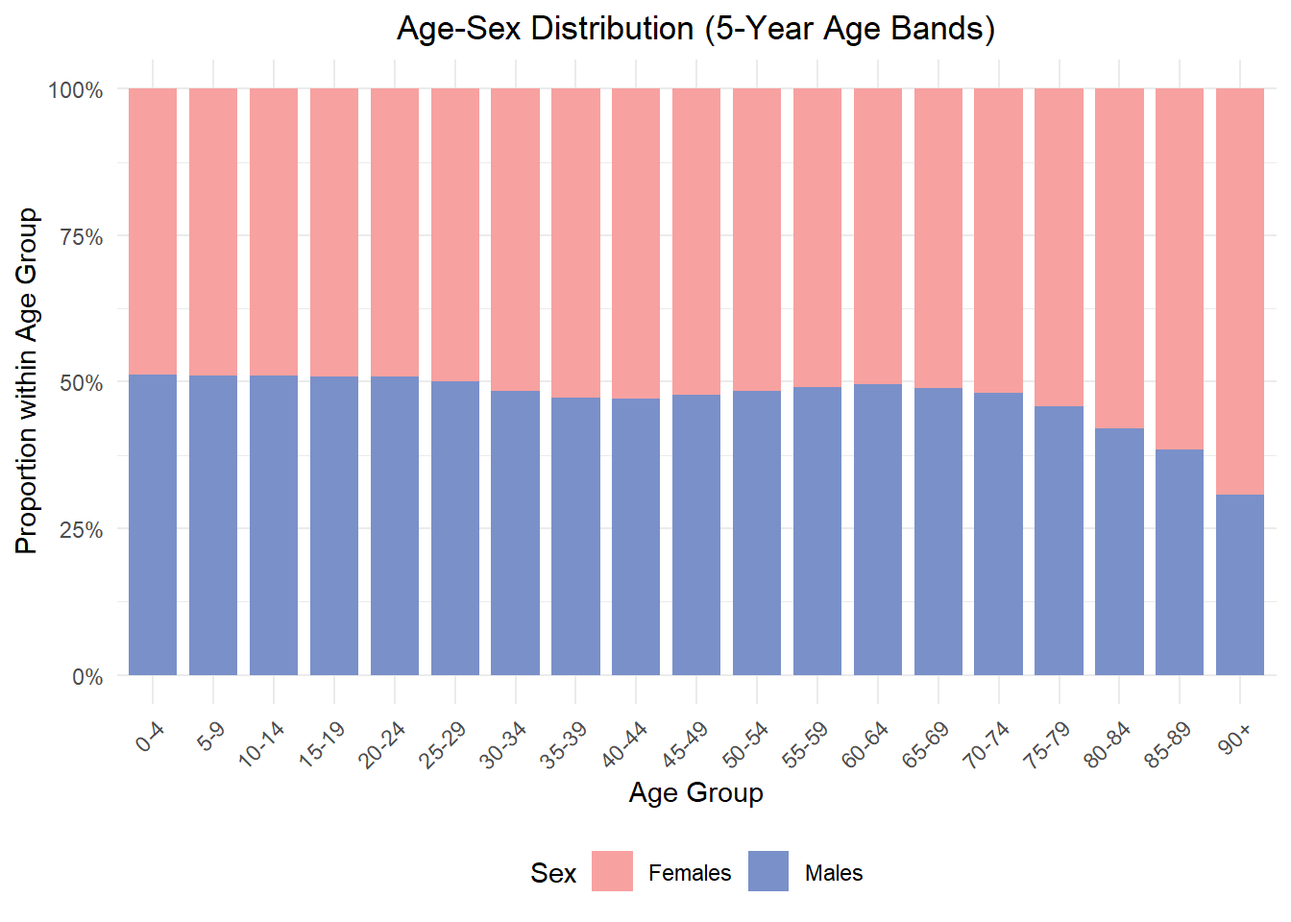
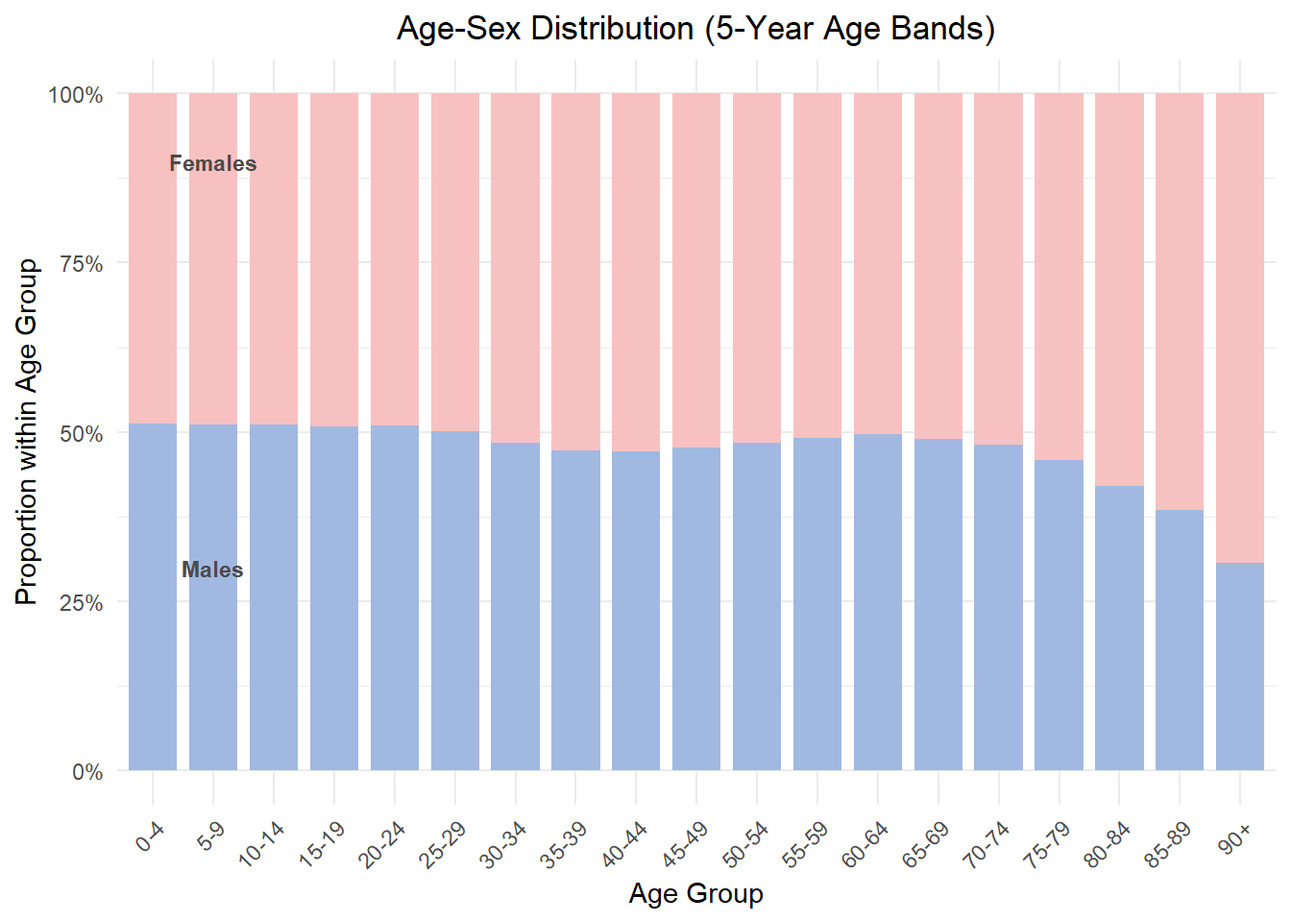
commit changes to take home exercise 1 visuals

diff --git a/_site/Take-home_Ex/Take-home_Ex1/Take-home_Ex01.html b/_site/Take-home_Ex/Take-home_Ex1/Take-home_Ex01.html
@@ -9,7 +9,7 @@
 <meta name="author" content="Yi Fang">
 <meta name="dcterms.date" content="2025-04-30">
 
-<title>Take-home Exercise 1 – &lt;img src='/images/shibainu.png' alt='ISSS608' style='height: 48px; width: 48px;'&gt;</title>
+<title>Take-home Exercise 1 – </title>
 <style>
 code{white-space: pre-wrap;}
 span.smallcaps{font-variant: small-caps;}
@@ -439,14 +439,14 @@ $ Time &lt;dbl&gt; 2024, 2024, 2024, 2024, 2024, 2024, 2024, 2024, 2024, 2024, 2
 <h3 class="anchored" data-anchor-id="national-distribution-of-age-and-sex-demographics">4.1 National Distribution of Age and Sex Demographics</h3>
 <p>To gain an overview of the national age and sex demographics, we use a population pyramid that highlights the age distribution by sex. The stacked bar chart further illustrates the sex distribution within each age group.</p>
 <div class="tabset-margin-container"></div><div class="panel-tabset">
-<ul class="nav nav-tabs" role="tablist"><li class="nav-item" role="presentation"><a class="nav-link active" id="tabset-1-1-tab" data-bs-toggle="tab" data-bs-target="#tabset-1-1" role="tab" aria-controls="tabset-1-1" aria-selected="true">The plot</a></li><li class="nav-item" role="presentation"><a class="nav-link" id="tabset-1-2-tab" data-bs-toggle="tab" data-bs-target="#tabset-1-2" role="tab" aria-controls="tabset-1-2" aria-selected="false">The code</a></li></ul>
+<ul class="nav nav-tabs" role="tablist"><li class="nav-item" role="presentation"><a class="nav-link active" id="tabset-1-1-tab" data-bs-toggle="tab" data-bs-target="#tabset-1-1" role="tab" aria-controls="tabset-1-1" aria-selected="true">Plot</a></li><li class="nav-item" role="presentation"><a class="nav-link" id="tabset-1-2-tab" data-bs-toggle="tab" data-bs-target="#tabset-1-2" role="tab" aria-controls="tabset-1-2" aria-selected="false">Code</a></li></ul>
 <div class="tab-content">
 <div id="tabset-1-1" class="tab-pane active" role="tabpanel" aria-labelledby="tabset-1-1-tab">
 <div class="cell">
 <div class="cell-output-display">
 <div>
 <figure class="figure">
-<p><img src="Take-home_Ex01_files/figure-html/unnamed-chunk-8-1.png" class="img-fluid figure-img" width="1248"></p>
+<p><img src="Take-home_Ex01_files/figure-html/unnamed-chunk-8-1.png" class="img-fluid figure-img" width="1056"></p>
 </figure>
 </div>
 </div>
@@ -474,7 +474,7 @@ $ Time &lt;dbl&gt; 2024, 2024, 2024, 2024, 2024, 2024, 2024, 2024, 2024, 2024, 2
 <span id="cb10-18"><a href="#cb10-18" aria-hidden="true" tabindex="-1"></a></span>
 <span id="cb10-19"><a href="#cb10-19" aria-hidden="true" tabindex="-1"></a><span class="co"># Determine max population size for label positioning</span></span>
 <span id="cb10-20"><a href="#cb10-20" aria-hidden="true" tabindex="-1"></a>max_pop <span class="ot">&lt;-</span> <span class="fu">max</span>(<span class="fu">abs</span>(national_data<span class="sc">$</span>Total))</span>
-<span id="cb10-21"><a href="#cb10-21" aria-hidden="true" tabindex="-1"></a>top_age_band <span class="ot">&lt;-</span> <span class="fu">tail</span>(<span class="fu">levels</span>(national_data<span class="sc">$</span>AgeBand), <span class="dv">1</span>)  <span class="co"># "90+"</span></span>
+<span id="cb10-21"><a href="#cb10-21" aria-hidden="true" tabindex="-1"></a>top_age_band <span class="ot">&lt;-</span> <span class="fu">tail</span>(<span class="fu">levels</span>(national_data<span class="sc">$</span>AgeBand), <span class="dv">1</span>)  </span>
 <span id="cb10-22"><a href="#cb10-22" aria-hidden="true" tabindex="-1"></a></span>
 <span id="cb10-23"><a href="#cb10-23" aria-hidden="true" tabindex="-1"></a><span class="co"># Population Pyramid plot with 90+ and top annotations</span></span>
 <span id="cb10-24"><a href="#cb10-24" aria-hidden="true" tabindex="-1"></a>pyramid_plot <span class="ot">&lt;-</span> <span class="fu">ggplot</span>(national_data, <span class="fu">aes</span>(<span class="at">x =</span> AgeBand, <span class="at">y =</span> Total, <span class="at">fill =</span> Sex)) <span class="sc">+</span></span>
@@ -485,18 +485,18 @@ $ Time &lt;dbl&gt; 2024, 2024, 2024, 2024, 2024, 2024, 2024, 2024, 2024, 2024, 2
 <span id="cb10-29"><a href="#cb10-29" aria-hidden="true" tabindex="-1"></a>    <span class="at">breaks =</span> <span class="fu">pretty_breaks</span>()</span>
 <span id="cb10-30"><a href="#cb10-30" aria-hidden="true" tabindex="-1"></a>  ) <span class="sc">+</span></span>
 <span id="cb10-31"><a href="#cb10-31" aria-hidden="true" tabindex="-1"></a>  <span class="fu">labs</span>(</span>
-<span id="cb10-32"><a href="#cb10-32" aria-hidden="true" tabindex="-1"></a>    <span class="at">title =</span> <span class="st">"Population Pyramid (5-Year Age Bands)"</span>,</span>
+<span id="cb10-32"><a href="#cb10-32" aria-hidden="true" tabindex="-1"></a>    <span class="at">title =</span> <span class="st">"Population Pyramid"</span>,</span>
 <span id="cb10-33"><a href="#cb10-33" aria-hidden="true" tabindex="-1"></a>    <span class="at">x =</span> <span class="st">"Age Group"</span>,</span>
 <span id="cb10-34"><a href="#cb10-34" aria-hidden="true" tabindex="-1"></a>    <span class="at">y =</span> <span class="st">"Population"</span></span>
 <span id="cb10-35"><a href="#cb10-35" aria-hidden="true" tabindex="-1"></a>  ) <span class="sc">+</span></span>
-<span id="cb10-36"><a href="#cb10-36" aria-hidden="true" tabindex="-1"></a>  <span class="fu">scale_fill_manual</span>(<span class="at">values =</span> <span class="fu">c</span>(<span class="st">"Males"</span> <span class="ot">=</span> <span class="st">"#7A90C9"</span>, <span class="st">"Females"</span> <span class="ot">=</span> <span class="st">"#F7A1A0"</span>)) <span class="sc">+</span></span>
+<span id="cb10-36"><a href="#cb10-36" aria-hidden="true" tabindex="-1"></a>  <span class="fu">scale_fill_manual</span>(<span class="at">values =</span> <span class="fu">c</span>(<span class="st">"Males"</span> <span class="ot">=</span> <span class="st">"#A1B8E0"</span>, <span class="st">"Females"</span> <span class="ot">=</span> <span class="st">"#F8C1C1"</span>)) <span class="sc">+</span></span>
 <span id="cb10-37"><a href="#cb10-37" aria-hidden="true" tabindex="-1"></a>  <span class="fu">theme_minimal</span>() <span class="sc">+</span></span>
 <span id="cb10-38"><a href="#cb10-38" aria-hidden="true" tabindex="-1"></a>  <span class="fu">theme</span>(</span>
 <span id="cb10-39"><a href="#cb10-39" aria-hidden="true" tabindex="-1"></a>    <span class="at">plot.title =</span> <span class="fu">element_text</span>(<span class="at">hjust =</span> <span class="fl">0.5</span>),</span>
 <span id="cb10-40"><a href="#cb10-40" aria-hidden="true" tabindex="-1"></a>    <span class="at">legend.position =</span> <span class="st">"none"</span></span>
 <span id="cb10-41"><a href="#cb10-41" aria-hidden="true" tabindex="-1"></a>  ) <span class="sc">+</span></span>
-<span id="cb10-42"><a href="#cb10-42" aria-hidden="true" tabindex="-1"></a>  <span class="fu">annotate</span>(<span class="st">"text"</span>, <span class="at">x =</span> top_age_band, <span class="at">y =</span> <span class="sc">-</span>max_pop <span class="sc">*</span> <span class="fl">0.9</span>, <span class="at">label =</span> <span class="st">"Males"</span>, <span class="at">color =</span> <span class="st">"#7A90C9"</span>, <span class="at">fontface =</span> <span class="st">"bold"</span>, <span class="at">size =</span> <span class="dv">5</span>) <span class="sc">+</span></span>
-<span id="cb10-43"><a href="#cb10-43" aria-hidden="true" tabindex="-1"></a>  <span class="fu">annotate</span>(<span class="st">"text"</span>, <span class="at">x =</span> top_age_band, <span class="at">y =</span> max_pop <span class="sc">*</span> <span class="fl">0.9</span>, <span class="at">label =</span> <span class="st">"Females"</span>, <span class="at">color =</span> <span class="st">"#F7A1A0"</span>, <span class="at">fontface =</span> <span class="st">"bold"</span>, <span class="at">size =</span> <span class="dv">5</span>)</span>
+<span id="cb10-42"><a href="#cb10-42" aria-hidden="true" tabindex="-1"></a>  <span class="fu">annotate</span>(<span class="st">"text"</span>, <span class="at">x =</span> top_age_band, <span class="at">y =</span> <span class="sc">-</span>max_pop <span class="sc">*</span> <span class="fl">0.5</span>, <span class="at">label =</span> <span class="st">"Males"</span>, <span class="at">color =</span> <span class="st">"#4A4A4A"</span>, <span class="at">fontface =</span> <span class="st">"bold"</span>, <span class="at">size =</span> <span class="dv">3</span>) <span class="sc">+</span></span>
+<span id="cb10-43"><a href="#cb10-43" aria-hidden="true" tabindex="-1"></a>  <span class="fu">annotate</span>(<span class="st">"text"</span>, <span class="at">x =</span> top_age_band, <span class="at">y =</span> max_pop <span class="sc">*</span> <span class="fl">0.5</span>, <span class="at">label =</span> <span class="st">"Females"</span>, <span class="at">color =</span> <span class="st">"#4A4A4A"</span>, <span class="at">fontface =</span> <span class="st">"bold"</span>, <span class="at">size =</span> <span class="dv">3</span>)</span>
 <span id="cb10-44"><a href="#cb10-44" aria-hidden="true" tabindex="-1"></a></span>
 <span id="cb10-45"><a href="#cb10-45" aria-hidden="true" tabindex="-1"></a>stacked_data <span class="ot">&lt;-</span> respop_data_clean <span class="sc">%&gt;%</span></span>
 <span id="cb10-46"><a href="#cb10-46" aria-hidden="true" tabindex="-1"></a>  <span class="fu">mutate</span>(<span class="at">Age =</span> <span class="fu">as.integer</span>(Age)) <span class="sc">%&gt;%</span></span>
@@ -520,22 +520,25 @@ $ Time &lt;dbl&gt; 2024, 2024, 2024, 2024, 2024, 2024, 2024, 2024, 2024, 2024, 2
 <span id="cb10-64"><a href="#cb10-64" aria-hidden="true" tabindex="-1"></a>  <span class="fu">geom_bar</span>(<span class="at">stat =</span> <span class="st">"identity"</span>, <span class="at">width =</span> <span class="fl">0.8</span>) <span class="sc">+</span></span>
 <span id="cb10-65"><a href="#cb10-65" aria-hidden="true" tabindex="-1"></a>  <span class="fu">scale_y_continuous</span>(<span class="at">labels =</span> scales<span class="sc">::</span><span class="fu">percent_format</span>()) <span class="sc">+</span></span>
 <span id="cb10-66"><a href="#cb10-66" aria-hidden="true" tabindex="-1"></a>  <span class="fu">labs</span>(</span>
-<span id="cb10-67"><a href="#cb10-67" aria-hidden="true" tabindex="-1"></a>    <span class="at">title =</span> <span class="st">"Age-Sex Distribution (5-Year Age Bands)"</span>,</span>
+<span id="cb10-67"><a href="#cb10-67" aria-hidden="true" tabindex="-1"></a>    <span class="at">title =</span> <span class="st">"Age-Sex Distribution"</span>,</span>
 <span id="cb10-68"><a href="#cb10-68" aria-hidden="true" tabindex="-1"></a>    <span class="at">x =</span> <span class="st">"Age Group"</span>,</span>
-<span id="cb10-69"><a href="#cb10-69" aria-hidden="true" tabindex="-1"></a>    <span class="at">y =</span> <span class="st">"Proportion within Age Group"</span>,</span>
-<span id="cb10-70"><a href="#cb10-70" aria-hidden="true" tabindex="-1"></a>    <span class="at">fill =</span> <span class="st">"Sex"</span></span>
-<span id="cb10-71"><a href="#cb10-71" aria-hidden="true" tabindex="-1"></a>  ) <span class="sc">+</span></span>
-<span id="cb10-72"><a href="#cb10-72" aria-hidden="true" tabindex="-1"></a>  <span class="fu">scale_fill_manual</span>(<span class="at">values =</span> <span class="fu">c</span>(<span class="st">"Males"</span> <span class="ot">=</span> <span class="st">"#7A90C9"</span>, <span class="st">"Females"</span> <span class="ot">=</span> <span class="st">"#F7A1A0"</span>)) <span class="sc">+</span></span>
-<span id="cb10-73"><a href="#cb10-73" aria-hidden="true" tabindex="-1"></a>  <span class="fu">theme_minimal</span>() <span class="sc">+</span></span>
-<span id="cb10-74"><a href="#cb10-74" aria-hidden="true" tabindex="-1"></a>  <span class="fu">theme</span>(</span>
-<span id="cb10-75"><a href="#cb10-75" aria-hidden="true" tabindex="-1"></a>    <span class="at">plot.title =</span> <span class="fu">element_text</span>(<span class="at">hjust =</span> <span class="fl">0.5</span>),</span>
-<span id="cb10-76"><a href="#cb10-76" aria-hidden="true" tabindex="-1"></a>    <span class="at">axis.text.x =</span> <span class="fu">element_text</span>(<span class="at">angle =</span> <span class="dv">45</span>, <span class="at">hjust =</span> <span class="dv">1</span>),</span>
-<span id="cb10-77"><a href="#cb10-77" aria-hidden="true" tabindex="-1"></a>    <span class="at">legend.position =</span> <span class="st">"bottom"</span></span>
-<span id="cb10-78"><a href="#cb10-78" aria-hidden="true" tabindex="-1"></a>  )</span>
-<span id="cb10-79"><a href="#cb10-79" aria-hidden="true" tabindex="-1"></a></span>
-<span id="cb10-80"><a href="#cb10-80" aria-hidden="true" tabindex="-1"></a></span>
-<span id="cb10-81"><a href="#cb10-81" aria-hidden="true" tabindex="-1"></a><span class="co"># Arrange both plots side by side</span></span>
-<span id="cb10-82"><a href="#cb10-82" aria-hidden="true" tabindex="-1"></a>pyramid_plot <span class="sc">+</span> stacked_bar_plot</span></code><button title="Copy to Clipboard" class="code-copy-button"><i class="bi"></i></button></pre></div>
+<span id="cb10-69"><a href="#cb10-69" aria-hidden="true" tabindex="-1"></a>    <span class="at">y =</span> <span class="st">"Proportion within Age Group"</span></span>
+<span id="cb10-70"><a href="#cb10-70" aria-hidden="true" tabindex="-1"></a>  ) <span class="sc">+</span></span>
+<span id="cb10-71"><a href="#cb10-71" aria-hidden="true" tabindex="-1"></a>  <span class="fu">scale_fill_manual</span>(<span class="at">values =</span> <span class="fu">c</span>(<span class="st">"Males"</span> <span class="ot">=</span> <span class="st">"#A1B8E0"</span>, <span class="st">"Females"</span> <span class="ot">=</span> <span class="st">"#F8C1C1"</span>)) <span class="sc">+</span></span>
+<span id="cb10-72"><a href="#cb10-72" aria-hidden="true" tabindex="-1"></a>  <span class="fu">theme_minimal</span>() <span class="sc">+</span></span>
+<span id="cb10-73"><a href="#cb10-73" aria-hidden="true" tabindex="-1"></a>  <span class="fu">theme</span>(</span>
+<span id="cb10-74"><a href="#cb10-74" aria-hidden="true" tabindex="-1"></a>    <span class="at">plot.title =</span> <span class="fu">element_text</span>(<span class="at">hjust =</span> <span class="fl">0.5</span>),</span>
+<span id="cb10-75"><a href="#cb10-75" aria-hidden="true" tabindex="-1"></a>    <span class="at">axis.text.x =</span> <span class="fu">element_text</span>(<span class="at">angle =</span> <span class="dv">45</span>, <span class="at">hjust =</span> <span class="dv">1</span>),</span>
+<span id="cb10-76"><a href="#cb10-76" aria-hidden="true" tabindex="-1"></a>    <span class="at">legend.position =</span> <span class="st">"none"</span>  </span>
+<span id="cb10-77"><a href="#cb10-77" aria-hidden="true" tabindex="-1"></a>  ) <span class="sc">+</span></span>
+<span id="cb10-78"><a href="#cb10-78" aria-hidden="true" tabindex="-1"></a>  <span class="co"># Annotate "Males" label</span></span>
+<span id="cb10-79"><a href="#cb10-79" aria-hidden="true" tabindex="-1"></a>  <span class="fu">annotate</span>(<span class="st">"text"</span>, <span class="at">x =</span> <span class="dv">2</span>, <span class="at">y =</span> <span class="fl">0.3</span>, <span class="at">label =</span> <span class="st">"Males"</span>, <span class="at">color =</span> <span class="st">"#4A4A4A"</span>, <span class="at">fontface =</span> <span class="st">"bold"</span>, <span class="at">size =</span> <span class="dv">3</span>) <span class="sc">+</span></span>
+<span id="cb10-80"><a href="#cb10-80" aria-hidden="true" tabindex="-1"></a>  <span class="co"># Annotate "Females" label</span></span>
+<span id="cb10-81"><a href="#cb10-81" aria-hidden="true" tabindex="-1"></a>  <span class="fu">annotate</span>(<span class="st">"text"</span>, <span class="at">x =</span> <span class="dv">2</span>, <span class="at">y =</span> <span class="fl">0.9</span>, <span class="at">label =</span> <span class="st">"Females"</span>, <span class="at">color =</span> <span class="st">"#4A4A4A"</span>, <span class="at">fontface =</span> <span class="st">"bold"</span>, <span class="at">size =</span> <span class="dv">3</span>)</span>
+<span id="cb10-82"><a href="#cb10-82" aria-hidden="true" tabindex="-1"></a></span>
+<span id="cb10-83"><a href="#cb10-83" aria-hidden="true" tabindex="-1"></a></span>
+<span id="cb10-84"><a href="#cb10-84" aria-hidden="true" tabindex="-1"></a><span class="co"># Arrange both plots side by side</span></span>
+<span id="cb10-85"><a href="#cb10-85" aria-hidden="true" tabindex="-1"></a>pyramid_plot <span class="sc">+</span> stacked_bar_plot</span></code><button title="Copy to Clipboard" class="code-copy-button"><i class="bi"></i></button></pre></div>
 </div>
 </div>
 </div>
@@ -551,7 +554,7 @@ $ Time &lt;dbl&gt; 2024, 2024, 2024, 2024, 2024, 2024, 2024, 2024, 2024, 2024, 2
 <h3 class="anchored" data-anchor-id="population-size-and-age-group-concentrations-by-region">4.2 Population Size and Age Group Concentrations by Region</h3>
 <p>This section explores how the population is spread across different age groups in each region. The stacked bar chart shows the breakdown across five age groups for each region. Additionally, a slope chart shows the proportion of the youth against the senior populations, providing a simple visual of how each region’s population skews younger or older.</p>
 <div class="tabset-margin-container"></div><div class="panel-tabset">
-<ul class="nav nav-tabs" role="tablist"><li class="nav-item" role="presentation"><a class="nav-link active" id="tabset-2-1-tab" data-bs-toggle="tab" data-bs-target="#tabset-2-1" role="tab" aria-controls="tabset-2-1" aria-selected="true">The plot</a></li><li class="nav-item" role="presentation"><a class="nav-link" id="tabset-2-2-tab" data-bs-toggle="tab" data-bs-target="#tabset-2-2" role="tab" aria-controls="tabset-2-2" aria-selected="false">The code</a></li></ul>
+<ul class="nav nav-tabs" role="tablist"><li class="nav-item" role="presentation"><a class="nav-link active" id="tabset-2-1-tab" data-bs-toggle="tab" data-bs-target="#tabset-2-1" role="tab" aria-controls="tabset-2-1" aria-selected="true">Plot</a></li><li class="nav-item" role="presentation"><a class="nav-link" id="tabset-2-2-tab" data-bs-toggle="tab" data-bs-target="#tabset-2-2" role="tab" aria-controls="tabset-2-2" aria-selected="false">Code</a></li></ul>
 <div class="tab-content">
 <div id="tabset-2-1" class="tab-pane active" role="tabpanel" aria-labelledby="tabset-2-1-tab">
 <div class="cell">
@@ -583,40 +586,41 @@ $ Time &lt;dbl&gt; 2024, 2024, 2024, 2024, 2024, 2024, 2024, 2024, 2024, 2024, 2
 <span id="cb11-15"><a href="#cb11-15" aria-hidden="true" tabindex="-1"></a>                               <span class="st">"45-64"</span> <span class="ot">=</span> <span class="st">"#FFD1A9"</span>,  </span>
 <span id="cb11-16"><a href="#cb11-16" aria-hidden="true" tabindex="-1"></a>                               <span class="st">"65+"</span> <span class="ot">=</span> <span class="st">"#E0B0FF"</span>)) <span class="sc">+</span>  </span>
 <span id="cb11-17"><a href="#cb11-17" aria-hidden="true" tabindex="-1"></a>  <span class="fu">theme_minimal</span>() <span class="sc">+</span></span>
-<span id="cb11-18"><a href="#cb11-18" aria-hidden="true" tabindex="-1"></a>  <span class="fu">theme</span>(<span class="at">axis.text.x =</span> <span class="fu">element_text</span>(<span class="at">angle =</span> <span class="dv">45</span>, <span class="at">hjust =</span> <span class="dv">1</span>))</span>
-<span id="cb11-19"><a href="#cb11-19" aria-hidden="true" tabindex="-1"></a></span>
-<span id="cb11-20"><a href="#cb11-20" aria-hidden="true" tabindex="-1"></a><span class="co"># Second plot (Slope Chart for Youth vs Senior Population)</span></span>
-<span id="cb11-21"><a href="#cb11-21" aria-hidden="true" tabindex="-1"></a>youth_senior_data <span class="ot">&lt;-</span> respop_data_clean <span class="sc">%&gt;%</span></span>
-<span id="cb11-22"><a href="#cb11-22" aria-hidden="true" tabindex="-1"></a>  <span class="fu">mutate</span>(<span class="at">Age_Group =</span> <span class="fu">case_when</span>(</span>
-<span id="cb11-23"><a href="#cb11-23" aria-hidden="true" tabindex="-1"></a>    Age <span class="sc">&lt;=</span> <span class="dv">24</span> <span class="sc">~</span> <span class="st">"Youth (0–24)"</span>,</span>
-<span id="cb11-24"><a href="#cb11-24" aria-hidden="true" tabindex="-1"></a>    Age <span class="sc">&gt;=</span> <span class="dv">65</span> <span class="sc">~</span> <span class="st">"Senior (65+)"</span>,</span>
-<span id="cb11-25"><a href="#cb11-25" aria-hidden="true" tabindex="-1"></a>    <span class="cn">TRUE</span> <span class="sc">~</span> <span class="cn">NA_character_</span></span>
-<span id="cb11-26"><a href="#cb11-26" aria-hidden="true" tabindex="-1"></a>  )) <span class="sc">%&gt;%</span></span>
-<span id="cb11-27"><a href="#cb11-27" aria-hidden="true" tabindex="-1"></a>  <span class="fu">filter</span>(<span class="sc">!</span><span class="fu">is.na</span>(Age_Group)) <span class="sc">%&gt;%</span></span>
-<span id="cb11-28"><a href="#cb11-28" aria-hidden="true" tabindex="-1"></a>  <span class="fu">group_by</span>(Region, Age_Group) <span class="sc">%&gt;%</span></span>
-<span id="cb11-29"><a href="#cb11-29" aria-hidden="true" tabindex="-1"></a>  <span class="fu">summarise</span>(<span class="at">Total_Pop =</span> <span class="fu">sum</span>(Pop, <span class="at">na.rm =</span> <span class="cn">TRUE</span>), <span class="at">.groups =</span> <span class="st">"drop"</span>) <span class="sc">%&gt;%</span></span>
-<span id="cb11-30"><a href="#cb11-30" aria-hidden="true" tabindex="-1"></a>  <span class="fu">pivot_wider</span>(<span class="at">names_from =</span> Age_Group, <span class="at">values_from =</span> Total_Pop) <span class="sc">%&gt;%</span></span>
-<span id="cb11-31"><a href="#cb11-31" aria-hidden="true" tabindex="-1"></a>  <span class="fu">mutate</span>(</span>
-<span id="cb11-32"><a href="#cb11-32" aria-hidden="true" tabindex="-1"></a>    <span class="st">`</span><span class="at">Youth-to-Senior Ratio</span><span class="st">`</span> <span class="ot">=</span> <span class="st">`</span><span class="at">Youth (0–24)</span><span class="st">`</span> <span class="sc">/</span> <span class="st">`</span><span class="at">Senior (65+)</span><span class="st">`</span></span>
-<span id="cb11-33"><a href="#cb11-33" aria-hidden="true" tabindex="-1"></a>  ) <span class="sc">%&gt;%</span></span>
-<span id="cb11-34"><a href="#cb11-34" aria-hidden="true" tabindex="-1"></a>  <span class="fu">pivot_longer</span>(</span>
-<span id="cb11-35"><a href="#cb11-35" aria-hidden="true" tabindex="-1"></a>    <span class="at">cols =</span> <span class="fu">c</span>(<span class="st">`</span><span class="at">Youth (0–24)</span><span class="st">`</span>, <span class="st">`</span><span class="at">Senior (65+)</span><span class="st">`</span>),</span>
-<span id="cb11-36"><a href="#cb11-36" aria-hidden="true" tabindex="-1"></a>    <span class="at">names_to =</span> <span class="st">"Group"</span>,</span>
-<span id="cb11-37"><a href="#cb11-37" aria-hidden="true" tabindex="-1"></a>    <span class="at">values_to =</span> <span class="st">"Population"</span></span>
-<span id="cb11-38"><a href="#cb11-38" aria-hidden="true" tabindex="-1"></a>  )</span>
-<span id="cb11-39"><a href="#cb11-39" aria-hidden="true" tabindex="-1"></a></span>
-<span id="cb11-40"><a href="#cb11-40" aria-hidden="true" tabindex="-1"></a><span class="co"># Slope chart plot</span></span>
-<span id="cb11-41"><a href="#cb11-41" aria-hidden="true" tabindex="-1"></a>slope_chart_plot <span class="ot">&lt;-</span> <span class="fu">ggplot</span>(youth_senior_data, <span class="fu">aes</span>(<span class="at">x =</span> Group, <span class="at">y =</span> Population, <span class="at">group =</span> Region)) <span class="sc">+</span></span>
-<span id="cb11-42"><a href="#cb11-42" aria-hidden="true" tabindex="-1"></a>  <span class="fu">geom_line</span>(<span class="fu">aes</span>(<span class="at">color =</span> Region), <span class="at">size =</span> <span class="dv">1</span>) <span class="sc">+</span></span>
-<span id="cb11-43"><a href="#cb11-43" aria-hidden="true" tabindex="-1"></a>  <span class="fu">geom_point</span>(<span class="fu">aes</span>(<span class="at">color =</span> Region), <span class="at">size =</span> <span class="dv">3</span>) <span class="sc">+</span></span>
-<span id="cb11-44"><a href="#cb11-44" aria-hidden="true" tabindex="-1"></a>  <span class="fu">labs</span>(<span class="at">title =</span> <span class="st">"Youth vs Senior Population by Region"</span>,</span>
-<span id="cb11-45"><a href="#cb11-45" aria-hidden="true" tabindex="-1"></a>       <span class="at">subtitle =</span> <span class="st">"Comparing age structure across regions using a slope chart"</span>,</span>
+<span id="cb11-18"><a href="#cb11-18" aria-hidden="true" tabindex="-1"></a>  <span class="fu">theme</span>(<span class="at">axis.text.x =</span> <span class="fu">element_text</span>(<span class="at">angle =</span> <span class="dv">45</span>, <span class="at">hjust =</span> <span class="dv">1</span>),</span>
+<span id="cb11-19"><a href="#cb11-19" aria-hidden="true" tabindex="-1"></a>        <span class="at">plot.title =</span> <span class="fu">element_text</span>(<span class="at">hjust =</span> <span class="fl">0.5</span>))</span>
+<span id="cb11-20"><a href="#cb11-20" aria-hidden="true" tabindex="-1"></a></span>
+<span id="cb11-21"><a href="#cb11-21" aria-hidden="true" tabindex="-1"></a><span class="co"># Second plot (Slope Chart for Youth vs Senior Population)</span></span>
+<span id="cb11-22"><a href="#cb11-22" aria-hidden="true" tabindex="-1"></a>youth_senior_data <span class="ot">&lt;-</span> respop_data_clean <span class="sc">%&gt;%</span></span>
+<span id="cb11-23"><a href="#cb11-23" aria-hidden="true" tabindex="-1"></a>  <span class="fu">mutate</span>(<span class="at">Age_Group =</span> <span class="fu">case_when</span>(</span>
+<span id="cb11-24"><a href="#cb11-24" aria-hidden="true" tabindex="-1"></a>    Age <span class="sc">&lt;=</span> <span class="dv">24</span> <span class="sc">~</span> <span class="st">"Youth (0–24)"</span>,</span>
+<span id="cb11-25"><a href="#cb11-25" aria-hidden="true" tabindex="-1"></a>    Age <span class="sc">&gt;=</span> <span class="dv">65</span> <span class="sc">~</span> <span class="st">"Senior (65+)"</span>,</span>
+<span id="cb11-26"><a href="#cb11-26" aria-hidden="true" tabindex="-1"></a>    <span class="cn">TRUE</span> <span class="sc">~</span> <span class="cn">NA_character_</span></span>
+<span id="cb11-27"><a href="#cb11-27" aria-hidden="true" tabindex="-1"></a>  )) <span class="sc">%&gt;%</span></span>
+<span id="cb11-28"><a href="#cb11-28" aria-hidden="true" tabindex="-1"></a>  <span class="fu">filter</span>(<span class="sc">!</span><span class="fu">is.na</span>(Age_Group)) <span class="sc">%&gt;%</span></span>
+<span id="cb11-29"><a href="#cb11-29" aria-hidden="true" tabindex="-1"></a>  <span class="fu">group_by</span>(Region, Age_Group) <span class="sc">%&gt;%</span></span>
+<span id="cb11-30"><a href="#cb11-30" aria-hidden="true" tabindex="-1"></a>  <span class="fu">summarise</span>(<span class="at">Total_Pop =</span> <span class="fu">sum</span>(Pop, <span class="at">na.rm =</span> <span class="cn">TRUE</span>), <span class="at">.groups =</span> <span class="st">"drop"</span>) <span class="sc">%&gt;%</span></span>
+<span id="cb11-31"><a href="#cb11-31" aria-hidden="true" tabindex="-1"></a>  <span class="fu">pivot_wider</span>(<span class="at">names_from =</span> Age_Group, <span class="at">values_from =</span> Total_Pop) <span class="sc">%&gt;%</span></span>
+<span id="cb11-32"><a href="#cb11-32" aria-hidden="true" tabindex="-1"></a>  <span class="fu">mutate</span>(</span>
+<span id="cb11-33"><a href="#cb11-33" aria-hidden="true" tabindex="-1"></a>    <span class="st">`</span><span class="at">Youth-to-Senior Ratio</span><span class="st">`</span> <span class="ot">=</span> <span class="st">`</span><span class="at">Youth (0–24)</span><span class="st">`</span> <span class="sc">/</span> <span class="st">`</span><span class="at">Senior (65+)</span><span class="st">`</span></span>
+<span id="cb11-34"><a href="#cb11-34" aria-hidden="true" tabindex="-1"></a>  ) <span class="sc">%&gt;%</span></span>
+<span id="cb11-35"><a href="#cb11-35" aria-hidden="true" tabindex="-1"></a>  <span class="fu">pivot_longer</span>(</span>
+<span id="cb11-36"><a href="#cb11-36" aria-hidden="true" tabindex="-1"></a>    <span class="at">cols =</span> <span class="fu">c</span>(<span class="st">`</span><span class="at">Youth (0–24)</span><span class="st">`</span>, <span class="st">`</span><span class="at">Senior (65+)</span><span class="st">`</span>),</span>
+<span id="cb11-37"><a href="#cb11-37" aria-hidden="true" tabindex="-1"></a>    <span class="at">names_to =</span> <span class="st">"Group"</span>,</span>
+<span id="cb11-38"><a href="#cb11-38" aria-hidden="true" tabindex="-1"></a>    <span class="at">values_to =</span> <span class="st">"Population"</span></span>
+<span id="cb11-39"><a href="#cb11-39" aria-hidden="true" tabindex="-1"></a>  )</span>
+<span id="cb11-40"><a href="#cb11-40" aria-hidden="true" tabindex="-1"></a></span>
+<span id="cb11-41"><a href="#cb11-41" aria-hidden="true" tabindex="-1"></a><span class="co"># Slope chart plot</span></span>
+<span id="cb11-42"><a href="#cb11-42" aria-hidden="true" tabindex="-1"></a>slope_chart_plot <span class="ot">&lt;-</span> <span class="fu">ggplot</span>(youth_senior_data, <span class="fu">aes</span>(<span class="at">x =</span> Group, <span class="at">y =</span> Population, <span class="at">group =</span> Region)) <span class="sc">+</span></span>
+<span id="cb11-43"><a href="#cb11-43" aria-hidden="true" tabindex="-1"></a>  <span class="fu">geom_line</span>(<span class="fu">aes</span>(<span class="at">color =</span> Region), <span class="at">linewidth =</span> <span class="dv">1</span>) <span class="sc">+</span></span>
+<span id="cb11-44"><a href="#cb11-44" aria-hidden="true" tabindex="-1"></a>  <span class="fu">geom_point</span>(<span class="fu">aes</span>(<span class="at">color =</span> Region), <span class="at">size =</span> <span class="dv">3</span>) <span class="sc">+</span></span>
+<span id="cb11-45"><a href="#cb11-45" aria-hidden="true" tabindex="-1"></a>  <span class="fu">labs</span>(<span class="at">title =</span> <span class="st">"Youth vs Senior Population by Region"</span>,</span>
 <span id="cb11-46"><a href="#cb11-46" aria-hidden="true" tabindex="-1"></a>       <span class="at">x =</span> <span class="st">""</span>, <span class="at">y =</span> <span class="st">"Population"</span>) <span class="sc">+</span></span>
 <span id="cb11-47"><a href="#cb11-47" aria-hidden="true" tabindex="-1"></a>  <span class="fu">theme_minimal</span>() <span class="sc">+</span></span>
-<span id="cb11-48"><a href="#cb11-48" aria-hidden="true" tabindex="-1"></a>  <span class="fu">theme</span>(<span class="at">legend.position =</span> <span class="st">"right"</span>)</span>
-<span id="cb11-49"><a href="#cb11-49" aria-hidden="true" tabindex="-1"></a></span>
-<span id="cb11-50"><a href="#cb11-50" aria-hidden="true" tabindex="-1"></a><span class="co"># Combine both plots side by side</span></span>
-<span id="cb11-51"><a href="#cb11-51" aria-hidden="true" tabindex="-1"></a>age_group_plot <span class="sc">+</span> slope_chart_plot</span></code><button title="Copy to Clipboard" class="code-copy-button"><i class="bi"></i></button></pre></div>
+<span id="cb11-48"><a href="#cb11-48" aria-hidden="true" tabindex="-1"></a>  <span class="fu">theme</span>(<span class="at">legend.position =</span> <span class="st">"right"</span>,</span>
+<span id="cb11-49"><a href="#cb11-49" aria-hidden="true" tabindex="-1"></a>        <span class="at">plot.title =</span> <span class="fu">element_text</span>(<span class="at">hjust =</span> <span class="fl">0.5</span>))</span>
+<span id="cb11-50"><a href="#cb11-50" aria-hidden="true" tabindex="-1"></a></span>
+<span id="cb11-51"><a href="#cb11-51" aria-hidden="true" tabindex="-1"></a><span class="co"># Combine both plots side by side</span></span>
+<span id="cb11-52"><a href="#cb11-52" aria-hidden="true" tabindex="-1"></a>age_group_plot <span class="sc">+</span> slope_chart_plot</span></code><button title="Copy to Clipboard" class="code-copy-button"><i class="bi"></i></button></pre></div>
 </div>
 </div>
 </div>
@@ -639,14 +643,14 @@ $ Time &lt;dbl&gt; 2024, 2024, 2024, 2024, 2024, 2024, 2024, 2024, 2024, 2024, 2
 </ul>
 <p>Together, these two visualisation provides a more comprehensive view of the population’s age structure, addressing the regional differences.</p>
 <div class="tabset-margin-container"></div><div class="panel-tabset">
-<ul class="nav nav-tabs" role="tablist"><li class="nav-item" role="presentation"><a class="nav-link active" id="tabset-3-1-tab" data-bs-toggle="tab" data-bs-target="#tabset-3-1" role="tab" aria-controls="tabset-3-1" aria-selected="true">The plot</a></li><li class="nav-item" role="presentation"><a class="nav-link" id="tabset-3-2-tab" data-bs-toggle="tab" data-bs-target="#tabset-3-2" role="tab" aria-controls="tabset-3-2" aria-selected="false">The code</a></li></ul>
+<ul class="nav nav-tabs" role="tablist"><li class="nav-item" role="presentation"><a class="nav-link active" id="tabset-3-1-tab" data-bs-toggle="tab" data-bs-target="#tabset-3-1" role="tab" aria-controls="tabset-3-1" aria-selected="true">Plot</a></li><li class="nav-item" role="presentation"><a class="nav-link" id="tabset-3-2-tab" data-bs-toggle="tab" data-bs-target="#tabset-3-2" role="tab" aria-controls="tabset-3-2" aria-selected="false">Code</a></li></ul>
 <div class="tab-content">
 <div id="tabset-3-1" class="tab-pane active" role="tabpanel" aria-labelledby="tabset-3-1-tab">
 <div class="cell">
 <div class="cell-output-display">
 <div>
 <figure class="figure">
-<p><img src="Take-home_Ex01_files/figure-html/unnamed-chunk-12-1.png" class="img-fluid figure-img" width="1248"></p>
+<p><img src="Take-home_Ex01_files/figure-html/unnamed-chunk-12-1.png" class="img-fluid figure-img" width="672"></p>
 </figure>
 </div>
 </div>
